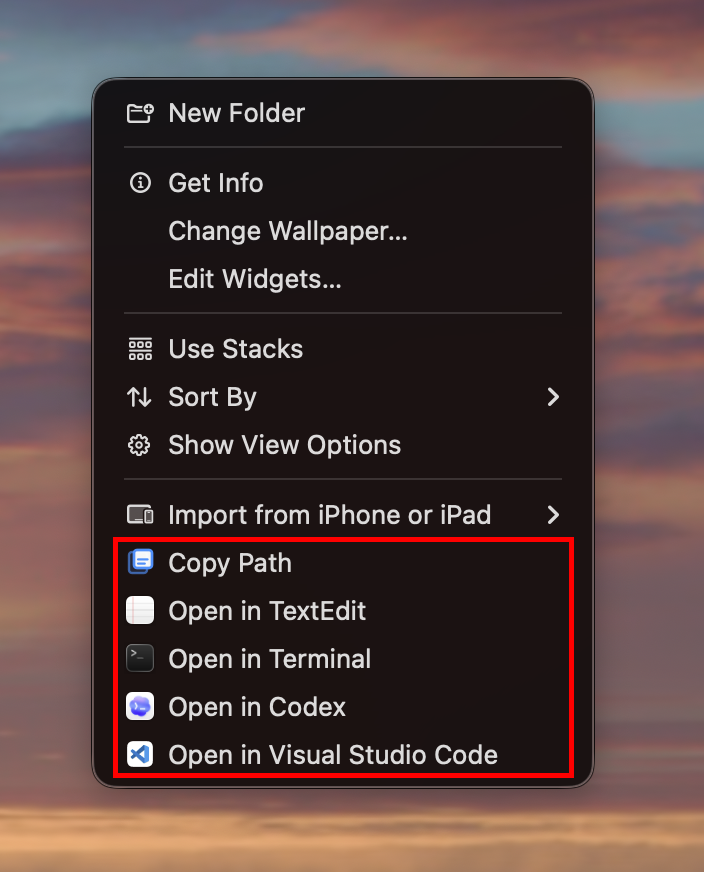
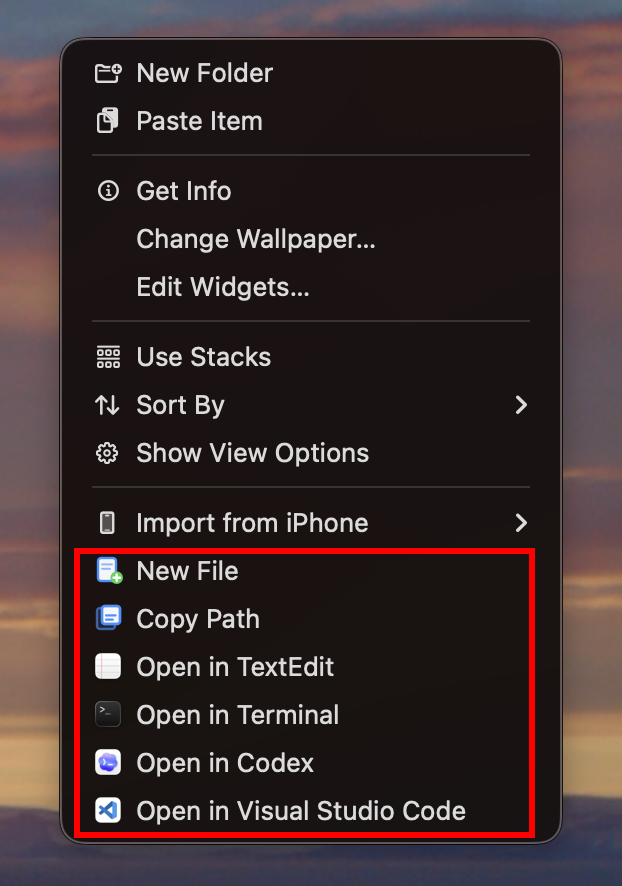
Publish MacHelper Finder screenshot with New File action

diff --git a/MacHelper/index.html b/MacHelper/index.html
@@ -102,12 +102,12 @@
           <div class="product-screenshots single-product-screenshot" aria-label="MacHelper screenshots">
             <figure class="finder-context-screenshot">
               <img
-                src="assets/finder-context-menu.png?v=20260609"
-                width="704"
-                height="872"
+                src="assets/finder-context-menu.png?v=20260611"
+                width="622"
+                height="886"
                 loading="lazy"
                 decoding="async"
-                alt="Finder right-click menu showing MacHelper actions: Copy Path, Open in TextEdit, Open in Terminal, Open in Codex, and Open in Visual Studio Code."
+                alt="Finder right-click menu highlighting MacHelper actions: New File, Copy Path, Open in TextEdit, Open in Terminal, Open in Codex, and Open in Visual Studio Code."
               >
             </figure>
           </div>